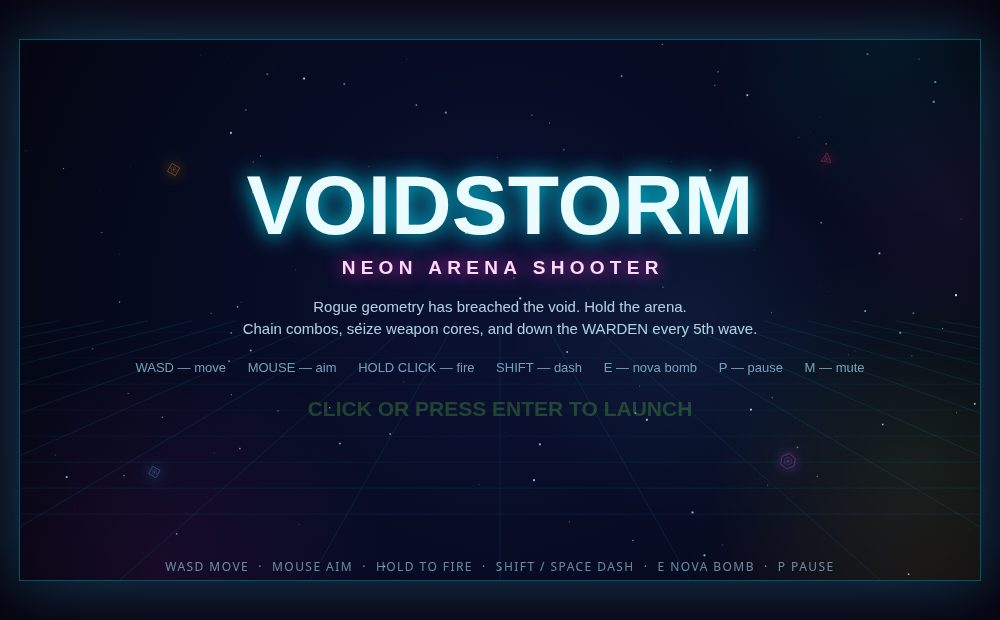
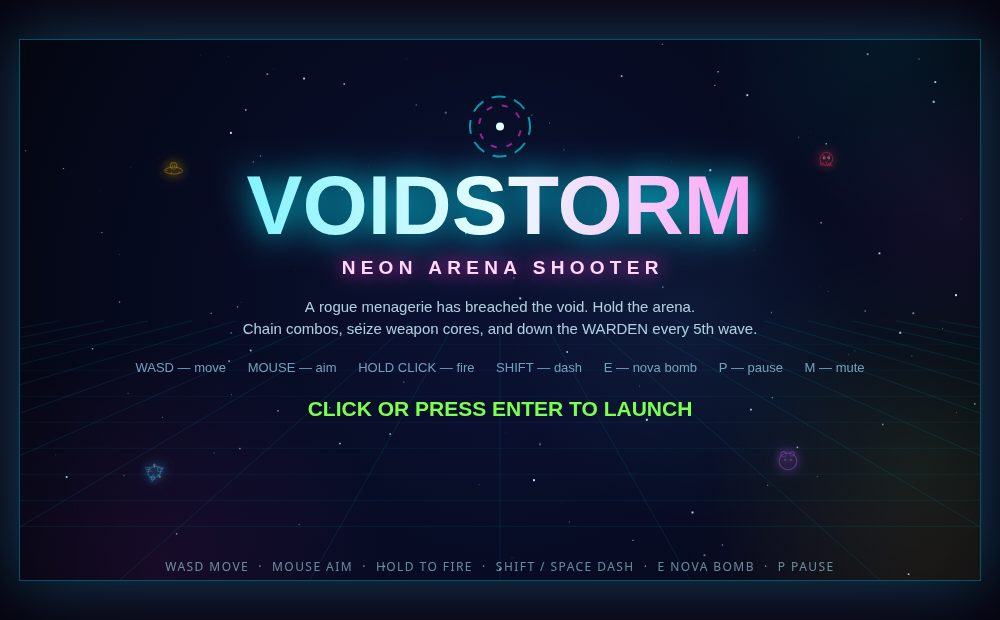
v14: character cast overhaul in the spirit of the great parody shooters - the player is now a proper fighter with a penguin pilot in a glass cockpit; enemies are creatures with faces (octopus chaser and its mini, UFO spinner with alien pilot, blob splitter carrying babies, cannon-claw crab sniper, r

diff --git a/game/index.html b/game/index.html
@@ -177,6 +177,10 @@ function ring(x, y, color) {
     parts.push({ x, y, vx: Math.cos(a) * 190, vy: Math.sin(a) * 190, life: 0.35, max: 0.35, color, size: 2.5 });
   }
 }
+function shock(x, y, color, big) {
+  // an expanding shockwave ring: the visual punctuation of a kill, readable even in a still frame
+  parts.push({ wave: true, x, y, vx: 0, vy: 0, life: 0.45, max: 0.45, color, size: big ? 175 : 105 });
+}
 const WEAPONS = {
   pulse:  { name: 'PULSE',  color: '#00e5ff' },
   twin:   { name: 'TWIN',   color: '#7cff4f' },
@@ -200,6 +204,8 @@ function detonate() {
   player.bombs--;
   ebullets = [];
   G.flash = 0.8; G.shake = 20; G.hitstop = 0.09;
+  shock(player.x, player.y, '#ff9f1c', true);
+  shock(player.x, player.y, '#ffffff', false);
   ring(player.x, player.y, '#ff9f1c');
   ring(player.x, player.y, '#ffffff');
   burst(player.x, player.y, '#ff9f1c', 30, 300);
@@ -362,6 +368,8 @@ function killEnemy(e, idx) {
   G.score += gained;
   parts.push({ x: e.x, y: e.y, vx: 0, vy: -46, life: 0.8, max: 0.8, color: '#ffffff', size: 13, text: '+' + gained });
   burst(e.x, e.y, e.color, e.type === 'warden' ? 60 : 16, e.type === 'warden' ? 340 : 240);
+  shock(e.x, e.y, e.elite ? '#ffd700' : e.color, e.type === 'warden');
+  if (e.type === 'warden') shock(e.x, e.y, '#ffffff', false);
   if (e.type === 'warden') {
     ring(e.x, e.y, '#ff1744'); ring(e.x, e.y, '#ffb300');
     G.shake = 18; G.hitstop = 0.12; G.flash = 0.5;
@@ -739,6 +747,7 @@ function drawBackground() {
     ctx.fillRect(s.x, s.y, s.z * 2, s.z * 2);
   }
 }
+function circ(x, y, r) { ctx.beginPath(); ctx.arc(x, y, r, 0, TAU); }
 function drawPlayer() {
   if (!player.alive && G.state === 'over') return;
   const blink = player.invuln > 0 && Math.floor(G.time * 16) % 2 === 0;
@@ -746,19 +755,35 @@ function drawPlayer() {
   ctx.translate(player.x, player.y);
   ctx.rotate(player.angle);
   ctx.globalAlpha = blink ? 0.35 : 1;
-  ctx.shadowColor = '#00e5ff'; ctx.shadowBlur = 16;
+  ctx.shadowColor = '#00e5ff'; ctx.shadowBlur = 13;
   ctx.fillStyle = player.dashTime > 0 ? '#aef7ff' : '#0b2b3a';
-  ctx.strokeStyle = '#00e5ff'; ctx.lineWidth = 2;
+  ctx.strokeStyle = '#00e5ff'; ctx.lineWidth = 1.8;
+  // tail fins and swept wings: a proper little fighter silhouette, not an arrowhead
+  ctx.beginPath(); ctx.moveTo(-7, -4); ctx.lineTo(-17, -13); ctx.lineTo(-14, -1); ctx.closePath(); ctx.fill(); ctx.stroke();
+  ctx.beginPath(); ctx.moveTo(-7, 4); ctx.lineTo(-17, 13); ctx.lineTo(-14, 1); ctx.closePath(); ctx.fill(); ctx.stroke();
+  ctx.beginPath(); ctx.moveTo(3, -5); ctx.lineTo(-8, -16); ctx.lineTo(-13, -4); ctx.closePath(); ctx.fill(); ctx.stroke();
+  ctx.beginPath(); ctx.moveTo(3, 5); ctx.lineTo(-8, 16); ctx.lineTo(-13, 4); ctx.closePath(); ctx.fill(); ctx.stroke();
+  // hull
   ctx.beginPath();
-  ctx.moveTo(16, 0); ctx.lineTo(-11, 10); ctx.lineTo(-6, 0); ctx.lineTo(-11, -10);
+  ctx.moveTo(19, 0);
+  ctx.quadraticCurveTo(8, 9.5, -10, 8);
+  ctx.quadraticCurveTo(-15, 0, -10, -8);
+  ctx.quadraticCurveTo(8, -9.5, 19, 0);
   ctx.closePath(); ctx.fill(); ctx.stroke();
   ctx.shadowBlur = 0;
-  ctx.fillStyle = '#e8fbff';
-  ctx.beginPath(); ctx.arc(2, 0, 3.4, 0, TAU); ctx.fill();
+  // glass cockpit dome, and inside it the penguin pilot — a bow to the great parody shooters
+  circ(3, 0, 7.8); ctx.fillStyle = 'rgba(160,230,255,0.30)'; ctx.fill();
+  ctx.strokeStyle = 'rgba(230,250,255,0.85)'; ctx.lineWidth = 1.2; circ(3, 0, 7.8); ctx.stroke();
+  circ(3, 0.8, 5.3); ctx.fillStyle = '#f4fbff'; ctx.fill();
+  ctx.fillStyle = '#12222e';
+  circ(1.1, -1.4, 0.95); ctx.fill();
+  circ(4.9, -1.4, 0.95); ctx.fill();
+  ctx.fillStyle = '#ffb300';
+  ctx.beginPath(); ctx.moveTo(1.5, 1.3); ctx.lineTo(4.5, 1.3); ctx.lineTo(3, 3.5); ctx.closePath(); ctx.fill();
   // engine flame
   const fl = 6 + Math.sin(G.time * 31) * 2.5 + (Math.hypot(player.vx, player.vy) > 40 ? 5 : 0);
   ctx.fillStyle = 'rgba(255,150,40,0.9)';
-  ctx.beginPath(); ctx.moveTo(-11, 3.4); ctx.lineTo(-11 - fl, 0); ctx.lineTo(-11, -3.4); ctx.closePath(); ctx.fill();
+  ctx.beginPath(); ctx.moveTo(-13, 3.2); ctx.lineTo(-13 - fl, 0); ctx.lineTo(-13, -3.2); ctx.closePath(); ctx.fill();
   ctx.restore();
 }
 function drawEnemies() {
@@ -771,25 +796,189 @@ function drawEnemies() {
       const ws = 1 - wf * 0.55;
       ctx.scale(ws, ws);
     }
-    ctx.shadowColor = e.color; ctx.shadowBlur = 14;
-    ctx.strokeStyle = e.flash > 0 ? '#ffffff' : e.color;
-    ctx.fillStyle = 'rgba(10,8,24,0.85)';
-    ctx.lineWidth = 2.2;
-    poly(0, 0, e.r, e.sides, e.rot);
-    ctx.fill(); ctx.stroke();
+    // characters draw a touch larger than their hit circles: kinder to the player, kinder to the eye
+    if (e.type !== 'warden') ctx.scale(1.18, 1.18);
+    // Character cast, in the spirit of the great parody shooters: every type is a creature
+    // with a face, not a polygon. F = the type's neon accent, BODY = its dark shell.
+    const F = e.flash > 0 ? '#ffffff' : e.color;
+    const BODY = e.flash > 0 ? 'rgba(255,255,255,0.92)' : 'rgba(12,10,26,0.88)';
+    const r = e.r, t = G.time;
+    ctx.shadowColor = e.color; ctx.shadowBlur = 12;
+    ctx.lineWidth = 2; ctx.strokeStyle = F; ctx.fillStyle = BODY;
+    if (e.type === 'chaser' || e.type === 'mini') {
+      // octopus: wavy tentacles, angry eyes — the mini is the same creature, younger
+      ctx.beginPath();
+      const legs = e.type === 'mini' ? 4 : 5;
+      for (let k = 0; k < legs; k++) {
+        const bx = (k - (legs - 1) / 2) * r * 0.36;
+        ctx.moveTo(bx - r * 0.13, r * 0.5);
+        ctx.quadraticCurveTo(bx + Math.sin(t * 6 + k * 1.4 + e.rot) * r * 0.24, r * 1.02, bx + r * 0.15, r * (0.98 + 0.1 * Math.sin(t * 6 + k + e.rot)));
+      }
+      ctx.stroke();
+      circ(0, 0, r * 0.92); ctx.fill(); ctx.stroke();
+      if (e.type === 'mini') {
+        ctx.fillStyle = '#fff'; circ(0, -r * 0.08, r * 0.30); ctx.fill();
+        ctx.fillStyle = '#141824'; circ(r * 0.06, -r * 0.06, r * 0.14); ctx.fill();
+        ctx.strokeStyle = F; ctx.beginPath(); ctx.arc(0, r * 0.28, r * 0.15, 0.2 * Math.PI, 0.8 * Math.PI); ctx.stroke();
+      } else {
+        ctx.fillStyle = '#fff';
+        circ(-r * 0.34, -r * 0.12, r * 0.21); ctx.fill();
+        circ(r * 0.34, -r * 0.12, r * 0.21); ctx.fill();
+        ctx.fillStyle = '#141824';
+        circ(-r * 0.29, -r * 0.10, r * 0.10); ctx.fill();
+        circ(r * 0.29, -r * 0.10, r * 0.10); ctx.fill();
+        ctx.strokeStyle = F; ctx.beginPath();
+        ctx.moveTo(-r * 0.56, -r * 0.5); ctx.lineTo(-r * 0.14, -r * 0.3);
+        ctx.moveTo(r * 0.56, -r * 0.5); ctx.lineTo(r * 0.14, -r * 0.3);
+        ctx.stroke();
+        ctx.beginPath(); ctx.arc(0, r * 0.36, r * 0.15, 0.2 * Math.PI, 0.8 * Math.PI); ctx.stroke();
+      }
+    } else if (e.type === 'spinner') {
+      // UFO: a little alien in a glass dome over a saucer with rotating rim lights
+      circ(0, -r * 0.5, r * 0.44); ctx.fill(); ctx.stroke();
+      ctx.fillStyle = '#8dff6a';
+      circ(-r * 0.15, -r * 0.48, r * 0.10); ctx.fill();
+      circ(r * 0.15, -r * 0.48, r * 0.10); ctx.fill();
+      ctx.fillStyle = BODY;
+      ctx.beginPath(); ctx.ellipse(0, r * 0.14, r * 1.18, r * 0.46, 0, 0, TAU); ctx.fill(); ctx.stroke();
+      for (let k = 0; k < 5; k++) {
+        const a = e.rot + (k / 5) * TAU;
+        ctx.fillStyle = Math.sin(a) > -0.2 ? F : 'rgba(255,255,255,0.25)';
+        circ(Math.cos(a) * r * 0.92, r * 0.14 + Math.sin(a) * r * 0.3, r * 0.1); ctx.fill();
+      }
+    } else if (e.type === 'splitter') {
+      // blob parent carrying two babies: squash-and-stretch as it wobbles in
+      const sq = 1 + Math.sin(t * 3.2 + e.rot) * 0.07;
+      ctx.save(); ctx.scale(1 / Math.sqrt(sq), sq);
+      circ(-r * 0.48, -r * 0.8, r * 0.3); ctx.fill(); ctx.stroke();
+      circ(r * 0.44, -r * 0.84, r * 0.24); ctx.fill(); ctx.stroke();
+      circ(0, 0, r * 0.95); ctx.fill(); ctx.stroke();
+      ctx.strokeStyle = '#f2f7ff'; ctx.lineWidth = 1.7;
+      ctx.beginPath(); ctx.arc(-r * 0.32, -r * 0.02, r * 0.14, 1.15 * Math.PI, 1.85 * Math.PI); ctx.stroke();
+      ctx.beginPath(); ctx.arc(r * 0.32, -r * 0.02, r * 0.14, 1.15 * Math.PI, 1.85 * Math.PI); ctx.stroke();
+      ctx.fillStyle = '#141824'; circ(0, r * 0.32, r * 0.15); ctx.fill();
+      ctx.restore();
+    } else if (e.type === 'sniper') {
+      // crab: eye stalks, six legs, and one oversized cannon claw aimed at the player
+      ctx.rotate(Math.atan2(player.y - e.y, player.x - e.x));
+      ctx.beginPath();
+      for (const s of [-1, 1]) for (let k = 0; k < 3; k++) {
+        const ly = s * (r * 0.28 + k * r * 0.3);
+        ctx.moveTo(-r * 0.25, ly); ctx.lineTo(-r * 1.0, ly + s * r * 0.24);
+      }
+      ctx.stroke();
+      ctx.beginPath(); ctx.ellipse(0, 0, r * 0.95, r * 0.78, 0, 0, TAU); ctx.fill(); ctx.stroke();
+      ctx.beginPath();
+      ctx.moveTo(r * 0.28, -r * 0.5); ctx.lineTo(r * 0.42, -r * 0.92);
+      ctx.moveTo(r * 0.28, r * 0.5); ctx.lineTo(r * 0.42, r * 0.92);
+      ctx.stroke();
+      ctx.fillStyle = '#fff';
+      circ(r * 0.44, -r * 0.96, r * 0.16); ctx.fill();
+      circ(r * 0.44, r * 0.96, r * 0.16); ctx.fill();
+      ctx.fillStyle = '#141824';
+      circ(r * 0.48, -r * 0.96, r * 0.07); ctx.fill();
+      circ(r * 0.48, r * 0.96, r * 0.07); ctx.fill();
+      ctx.fillStyle = BODY; circ(r * 0.88, 0, r * 0.34); ctx.fill(); ctx.stroke();
+      ctx.fillStyle = F; ctx.fillRect(r * 0.98, -r * 0.09, r * 0.55, r * 0.18);
+      ctx.fillStyle = BODY; circ(-r * 0.55, r * 0.66, r * 0.22); ctx.fill(); ctx.stroke();
+    } else if (e.type === 'charger') {
+      // rocket pig: snout first, ears up, and a rocket pack that flares on the telegraph
+      ctx.rotate(Math.atan2(player.y - e.y, player.x - e.x));
+      if (e.tele) {
+        const fl = r * (0.7 + Math.random() * 0.5);
+        ctx.fillStyle = 'rgba(255,150,40,0.9)';
+        ctx.beginPath(); ctx.moveTo(-r * 1.05, r * 0.3); ctx.lineTo(-r * 1.05 - fl, 0); ctx.lineTo(-r * 1.05, -r * 0.3); ctx.closePath(); ctx.fill();
+      }
+      ctx.fillStyle = BODY; ctx.fillRect(-r * 1.08, -r * 0.34, r * 0.42, r * 0.68); ctx.strokeRect(-r * 1.08, -r * 0.34, r * 0.42, r * 0.68);
+      ctx.beginPath();
+      ctx.moveTo(r * 0.05, -r * 0.72); ctx.lineTo(r * 0.34, -r * 1.12); ctx.lineTo(r * 0.52, -r * 0.62); ctx.closePath(); ctx.fill(); ctx.stroke();
+      ctx.beginPath();
+      ctx.moveTo(r * 0.05, r * 0.72); ctx.lineTo(r * 0.34, r * 1.12); ctx.lineTo(r * 0.52, r * 0.62); ctx.closePath(); ctx.fill(); ctx.stroke();
+      circ(0, 0, r * 0.95); ctx.fill(); ctx.stroke();
+      ctx.beginPath(); ctx.ellipse(r * 0.52, 0, r * 0.44, r * 0.35, 0, 0, TAU); ctx.fill(); ctx.stroke();
+      ctx.fillStyle = '#141824';
+      circ(r * 0.6, -r * 0.13, r * 0.065); ctx.fill();
+      circ(r * 0.6, r * 0.13, r * 0.065); ctx.fill();
+      ctx.fillStyle = '#fff';
+      circ(r * 0.3, -r * 0.46, r * 0.15); ctx.fill();
+      circ(r * 0.3, r * 0.46, r * 0.15); ctx.fill();
+      ctx.fillStyle = '#141824';
+      circ(r * 0.34, -r * 0.46, r * 0.07); ctx.fill();
+      circ(r * 0.34, r * 0.46, r * 0.07); ctx.fill();
+    } else if (e.type === 'orbiter') {
+      // bee: flapping wings, bold stripes, a sting, and a determined little face
+      ctx.rotate(Math.atan2(player.y - e.y, player.x - e.x));
+      const wf = Math.sin(t * 32 + e.rot * 4) * 0.45;
+      ctx.fillStyle = 'rgba(220,250,255,0.5)';
+      ctx.save(); ctx.translate(-r * 0.1, -r * 0.72); ctx.rotate(-0.5 + wf);
+      ctx.beginPath(); ctx.ellipse(0, -r * 0.3, r * 0.24, r * 0.5, 0, 0, TAU); ctx.fill(); ctx.restore();
+      ctx.save(); ctx.translate(-r * 0.1, r * 0.72); ctx.rotate(0.5 - wf);
+      ctx.beginPath(); ctx.ellipse(0, r * 0.3, r * 0.24, r * 0.5, 0, 0, TAU); ctx.fill(); ctx.restore();
+      ctx.fillStyle = F;
+      ctx.beginPath(); ctx.moveTo(-r * 0.85, -r * 0.16); ctx.lineTo(-r * 1.25, 0); ctx.lineTo(-r * 0.85, r * 0.16); ctx.closePath(); ctx.fill();
+      ctx.fillStyle = BODY; circ(0, 0, r * 0.9); ctx.fill(); ctx.stroke();
+      ctx.save(); circ(0, 0, r * 0.9); ctx.clip();
+      ctx.fillStyle = 'rgba(8,12,8,0.55)';
+      ctx.fillRect(-r * 0.18, -r, r * 0.3, 2 * r);
+      ctx.fillRect(r * 0.36, -r, r * 0.26, 2 * r);
+      ctx.restore();
+      ctx.fillStyle = '#fff';
+      circ(r * 0.52, -r * 0.3, r * 0.16); ctx.fill();
+      circ(r * 0.52, r * 0.3, r * 0.16); ctx.fill();
+      ctx.fillStyle = '#141824';
+      circ(r * 0.56, -r * 0.3, r * 0.075); ctx.fill();
+      circ(r * 0.56, r * 0.3, r * 0.075); ctx.fill();
+    } else if (e.type === 'warden') {
+      // the Warden: a giant crowned octopus, six long tentacles waving beneath it
+      ctx.beginPath();
+      for (let k = 0; k < 6; k++) {
+        const bx = (k - 2.5) * r * 0.3;
+        ctx.moveTo(bx - r * 0.1, r * 0.55);
+        ctx.quadraticCurveTo(bx + Math.sin(t * 2.6 + k * 1.1) * r * 0.3, r * 1.15, bx + r * 0.14, r * (1.25 + 0.12 * Math.sin(t * 2.6 + k * 0.9)));
+      }
+      ctx.lineWidth = 3; ctx.stroke(); ctx.lineWidth = 2;
+      circ(0, 0, r * 0.98); ctx.fill(); ctx.stroke();
+      // crown
+      ctx.fillStyle = '#ffd700'; ctx.strokeStyle = '#c9930a';
+      ctx.beginPath();
+      ctx.moveTo(-r * 0.52, -r * 0.78);
+      ctx.lineTo(-r * 0.52, -r * 1.08); ctx.lineTo(-r * 0.28, -r * 0.86);
+      ctx.lineTo(-r * 0.13, -r * 1.18); ctx.lineTo(0, -r * 0.88);
+      ctx.lineTo(r * 0.13, -r * 1.18); ctx.lineTo(r * 0.28, -r * 0.86);
+      ctx.lineTo(r * 0.52, -r * 1.08); ctx.lineTo(r * 0.52, -r * 0.78);
+      ctx.closePath(); ctx.fill(); ctx.stroke();
+      ctx.fillStyle = '#ff2bd6'; circ(0, -r * 0.95, r * 0.07); ctx.fill();
+      ctx.fillStyle = '#00e5ff'; circ(-r * 0.38, -r * 0.9, r * 0.055); ctx.fill(); circ(r * 0.38, -r * 0.9, r * 0.055); ctx.fill();
+      // face
+      ctx.fillStyle = '#fff';
+      circ(-r * 0.33, -r * 0.1, r * 0.19); ctx.fill();
+      circ(r * 0.33, -r * 0.1, r * 0.19); ctx.fill();
+      ctx.fillStyle = '#141824';
+      circ(-r * 0.3, -r * 0.08, r * 0.09); ctx.fill();
+      circ(r * 0.3, -r * 0.08, r * 0.09); ctx.fill();
+      ctx.strokeStyle = F; ctx.beginPath();
+      ctx.moveTo(-r * 0.54, -r * 0.44); ctx.lineTo(-r * 0.14, -r * 0.26);
+      ctx.moveTo(r * 0.54, -r * 0.44); ctx.lineTo(r * 0.14, -r * 0.26);
+      ctx.stroke();
+      ctx.beginPath(); ctx.arc(0, r * 0.55, r * 0.2, 1.2 * Math.PI, 1.8 * Math.PI); ctx.stroke();
+    }
     ctx.shadowBlur = 0;
-    ctx.rotate(e.rot * -0.6);
-    ctx.strokeStyle = 'rgba(255,255,255,0.5)'; ctx.lineWidth = 1.2;
-    poly(0, 0, e.r * 0.52, e.sides, 0);
-    ctx.stroke();
-    ctx.fillStyle = e.flash > 0 ? '#fff' : e.color;
-    ctx.beginPath(); ctx.arc(0, 0, Math.max(2.4, e.r * 0.16), 0, TAU); ctx.fill();
     if (e.elite) { // golden halo ring marks an elite
       ctx.strokeStyle = '#ffd700'; ctx.lineWidth = 1.6;
       ctx.shadowColor = '#ffd700'; ctx.shadowBlur = 10;
       poly(0, 0, e.r + 4.5, e.sides, -e.rot * 0.8);
       ctx.stroke();
       ctx.shadowBlur = 0;
+    }
+    if (e.type === 'warden') { // rotating dashed shield ring: the boss reads as a boss at a glance
+      ctx.save();
+      ctx.strokeStyle = e.enraged ? '#ff2255' : '#ff1744';
+      ctx.globalAlpha = 0.5;
+      ctx.lineWidth = 2;
+      ctx.setLineDash([12, 8]);
+      ctx.lineDashOffset = -G.time * 26;
+      ctx.beginPath(); ctx.arc(0, 0, e.r + 13, 0, TAU); ctx.stroke();
+      ctx.restore();
     }
     ctx.restore();
     if (e.tele) { // telegraph (sniper shot / charger dash)
@@ -857,7 +1046,13 @@ function drawPickups() {
 function drawParts() {
   for (const p of parts) {
     const a = clamp(p.life / p.max, 0, 1);
-    if (p.text) {
+    if (p.wave) {
+      ctx.save();
+      ctx.globalAlpha = a * 0.75;
+      ctx.strokeStyle = p.color; ctx.lineWidth = 2.5;
+      ctx.beginPath(); ctx.arc(p.x, p.y, 6 + (1 - a) * p.size, 0, TAU); ctx.stroke();
+      ctx.restore();
+    } else if (p.text) {
       ctx.save();
       ctx.globalAlpha = a;
       ctx.fillStyle = p.color;
@@ -981,9 +1176,25 @@ function drawHUD() {
 function drawTitle() {
   ctx.save();
   ctx.textAlign = 'center';
+  // rotating double emblem above the logo
+  ctx.save();
+  ctx.translate(W / 2, H * 0.36 - 108);
+  ctx.lineWidth = 2;
+  ctx.strokeStyle = 'rgba(0,229,255,0.65)';
+  ctx.setLineDash([14, 9]); ctx.lineDashOffset = -G.time * 18;
+  ctx.beginPath(); ctx.arc(0, 0, 30, 0, TAU); ctx.stroke();
+  ctx.strokeStyle = 'rgba(255,43,214,0.6)';
+  ctx.setLineDash([6, 10]); ctx.lineDashOffset = G.time * 26;
+  ctx.beginPath(); ctx.arc(0, 0, 21, 0, TAU); ctx.stroke();
+  ctx.setLineDash([]);
+  ctx.fillStyle = '#eafcff';
+  ctx.beginPath(); ctx.arc(0, 0, 4, 0, TAU); ctx.fill();
+  ctx.restore();
   const pulse = 0.75 + 0.25 * Math.sin(G.time * 2.2);
   ctx.shadowColor = '#00e5ff'; ctx.shadowBlur = 34 * pulse;
-  ctx.fillStyle = '#eafcff';
+  const lg = ctx.createLinearGradient(W / 2 - 270, 0, W / 2 + 270, 0);
+  lg.addColorStop(0, '#7df3ff'); lg.addColorStop(0.5, '#eafcff'); lg.addColorStop(1, '#ff9df3');
+  ctx.fillStyle = lg;
   ctx.font = 'bold 84px "Segoe UI", sans-serif';
   ctx.fillText('VOIDSTORM', W / 2, H * 0.36);
   ctx.shadowColor = '#ff2bd6'; ctx.shadowBlur = 18;
@@ -993,7 +1204,7 @@ function drawTitle() {
   ctx.shadowBlur = 0;
   ctx.fillStyle = 'rgba(205,240,255,0.85)';
   ctx.font = '15px "Segoe UI", sans-serif';
-  ctx.fillText('Rogue geometry has breached the void. Hold the arena.', W / 2, H * 0.36 + 78);
+  ctx.fillText('A rogue menagerie has breached the void. Hold the arena.', W / 2, H * 0.36 + 78);
   ctx.fillText('Chain combos, seize weapon cores, and down the WARDEN every 5th wave.', W / 2, H * 0.36 + 100);
   ctx.fillStyle = 'rgba(160,220,245,0.7)';
   ctx.font = '13px "Segoe UI", sans-serif';
@@ -1159,7 +1370,7 @@ function shotScene() {
     spawnEnemy('chaser', W * 0.84, H * 0.22);
     spawnEnemy('splitter', W * 0.8, H * 0.78);
     spawnEnemy('sniper', W * 0.14, H * 0.8);
-    for (let i = 0; i < 160; i++) step(1 / 60);
+    for (let i = 0; i < 212; i++) step(1 / 60); // 212 steps lands the launch prompt at the top of its blink
     enemies.forEach((e) => { e.x = clamp(e.x, 60, W - 60); e.y = clamp(e.y, 60, H - 60); });
   } else if (SHOT === 'play') {
     startGame();
@@ -1182,6 +1393,10 @@ function shotScene() {
     pickups.push({ x: W * 0.3, y: H * 0.36, kind: 'weapon', weapon: 'rapid', r: 10, t: 1, life: 10 });
     // scripted combat: aim at the nearest foe and fire while strafing
     for (let i = 0; i < 110; i++) {
+      if (i === 100) { // the elite dies just before the capture: burst, score text and shockwave in frame
+        const ei = enemies.findIndex((e) => e.elite);
+        if (ei >= 0) killEnemy(enemies[ei], ei);
+      }
       let bestE = null, bd = 1e18;
       for (const e of enemies) { const d = dist2(e.x, e.y, player.x, player.y); if (d < bd) { bd = d; bestE = e; } }
       if (bestE) { mouse.x = bestE.x; mouse.y = bestE.y; }
